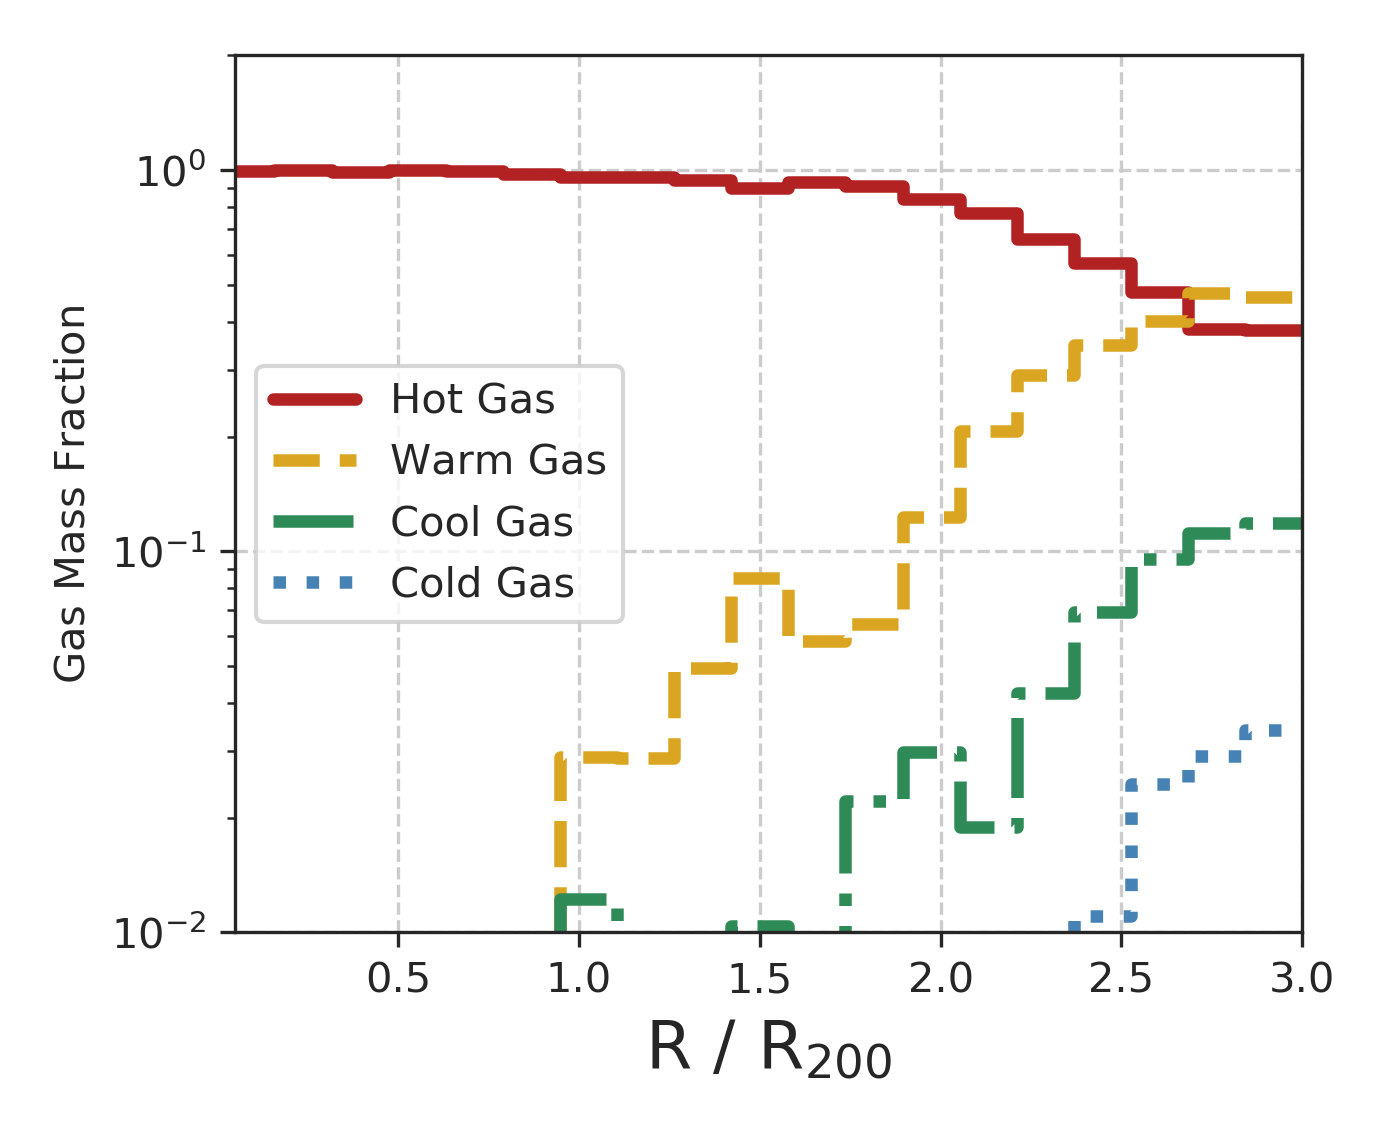
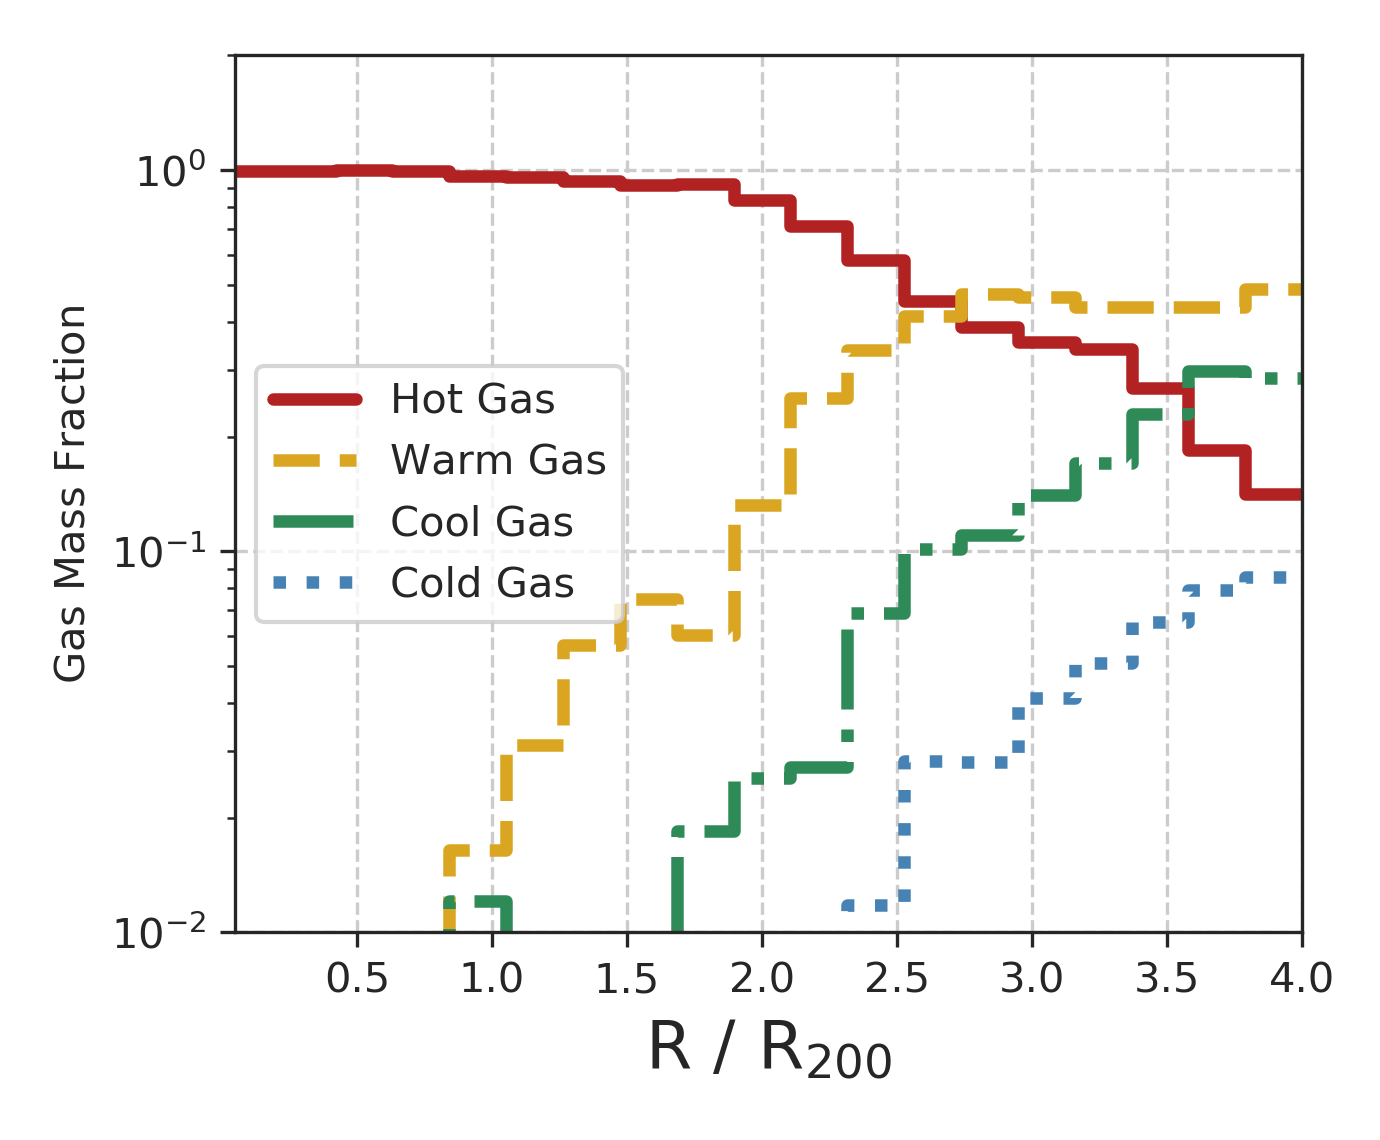
changing xrange in units of r200

diff --git a/plot_multipanel_halo_ion.py b/plot_multipanel_halo_ion.py
@@ -15,19 +15,19 @@ sns.set_style("ticks",{'axes.grid': True, 'grid.linestyle': '--'})
 
 import ion_plot_definitions as ipd
 
-def load_combined_counts(ion, output_list, plot_bin, sim = 'romulusC'):
+def load_combined_counts(ion, output_list, plot_bin, sim = 'romulusC', suffix = '_300'):
     counts = np.zeros(799*799)
     for output in output_list:
-        plot_data = h5.File('/nobackup/ibutsky/data/YalePaper/%s.%06d_combined_halo_ion_histogram_data.h5'%(sim, output), 'r')
+        plot_data = h5.File('/nobackup/ibutsky/data/YalePaper/%s.%06d_combined_halo_ion_histogram_data%s.h5'%(sim, output, suffix), 'r')
         counts += plot_data['%s_%s_counts'%(ion, plot_bin)][:]
     return counts.reshape(799, 799)
 
 
 def multipanel_ion_plot(sim, output, ion_list, plot_type, bin_type, do_colormesh = False, \
-                        combine = False, combined_output_list = []):
+                        combine = False, combined_output_list = [], suffix = '_300'):
 
-    plot_data = h5.File('/nobackup/ibutsky/data/YalePaper/%s.%06d_combined_halo_ion_histogram_data.h5'%(sim, output), 'r')
-    profile_data = h5.File('/nobackup/ibutsky/data/YalePaper/%s.%06d_combined_halo_ion_profile_data.h5'%(sim, output), 'r')
+    plot_data = h5.File('/nobackup/ibutsky/data/YalePaper/%s.%06d_combined_halo_ion_histogram_data%s.h5'%(sim, output, suffix), 'r')
+    profile_data = h5.File('/nobackup/ibutsky/data/YalePaper/%s.%06d_combined_halo_ion_profile_data%s.h5'%(sim, output, suffix), 'r')
     
     if len(ion_list) < 4:
         nrows = 1
@@ -61,15 +61,21 @@ def multipanel_ion_plot(sim, output, ion_list, plot_type, bin_type, do_colormesh
         linestyles = ['solid', 'dashed', 'dashdot']
     elif bin_type == 'dist':
         plot_bins = ['dist_1', 'dist_2', 'dist_3', 'dist_4']
-        plot_labels = ['$\mathrm{r} < 0.5 \mathrm{R}_{\mathrm{vir}}$', \
-                       '$ 0.5 \mathrm{R}_{\mathrm{vir}} < \mathrm{r} < \mathrm{R}_{\mathrm{vir}}$', \
-                       '$ \mathrm{R}_{\mathrm{vir}} < \mathrm{r} < 2 \mathrm{R}_{\mathrm{vir}}$' ,\
-                       '$ 2 \mathrm{R}_{\mathrm{vir}} < \mathrm{r} < 3 \mathrm{R}_{\mathrm{vir}}$']
         plot_labels = ['$\mathrm{r}\ <\ 0.5 \mathrm{Mpc}$', \
                        '$0.5\mathrm{Mpc}\ <\ \mathrm{r}\ <\ 1 \mathrm{Mpc}$',
                        '$1 \mathrm{Mpc}\ <\ \mathrm{r}\ <\ 2 \mathrm{Mpc}$',
                        '$2 \mathrm{Mpc}\ <\ \mathrm{r}\ <\ 3 \mathrm{Mpc}$']
+        linestyles = ['solid', 'dashed', 'dashdot', 'dotted']
 
+    elif bin_type == 'r200':
+        plot_bins = ['r1', 'r2', 'r3', 'r4']
+#        plot_labels = ['$\mathrm{r} < 0.5 \mathrm{R}_{\mathrm{vir}}$', \
+#                       '$ 0.5 \mathrm{R}_{\mathrm{vir}} < \mathrm{r} < \mathrm{R}_{\mathrm{vir}}$', \
+#                       '$ \mathrm{R}_{\mathrm{vir}} < \mathrm{r} < 2 \mathrm{R}_{\mathrm{vir}}$' ,\
+#                       '$ 2 \mathrm{R}_{\mathrm{vir}} < \mathrm{r} < 3 \mathrm{R}_{\mathrm{vir}}$']
+        plot_labels = ['$\mathrm{r} < 0.5 \mathrm{R}_{200}$', '$ 0.5 \mathrm{R}_{200} < \mathrm{r} < \mathrm{R}_{200}$', \      
+                       '$ \mathrm{R}_{200} < \mathrm{r} < 2 \mathrm{R}_{200}$',\  
+                       '$ 2 \mathrm{R}_{200} < \mathrm{r} < 3 \mathrm{R}_{200}$']                                             
 
         linestyles = ['solid', 'dashed', 'dashdot', 'dotted']
 
@@ -174,11 +180,18 @@ sim = 'romulusC'
 output = 3035
 plot_type = 'cfrac'
 multipanel_ion_plot(sim, output, ion_list, plot_type, 'dist', combine = False)
+multipanel_ion_plot(sim, output, ion_list, plot_type, 'r200', combine = False)
 
 
 plot_type = 'column'
 multipanel_ion_plot(sim, output, ion_list, plot_type, 'dist', combine = False)
-#multipanel_ion_plot(sim, output, ion_list, plot_type, 'dist', combine = False, do_colormesh = True)
+multipanel_ion_plot(sim, output, ion_list, plot_type, 'r200', combine = False)
 
-output = 3360
-multipanel_ion_plot(sim, output, ion_list, plot_type, 'dist', combine = True, combined_output_list = [3697])
+
+
+
+
+
+#multipanel_ion_plot(sim, output, ion_list, plot_type, 'dist', combine = False, do_colormesh = True)
+#output = 3360
+#multipanel_ion_plot(sim, output, ion_list, plot_type, 'dist', combine = True, combined_output_list = [3697])

diff --git a/generate_halo_combined_column_data.py b/generate_halo_combined_column_data.py
@@ -13,7 +13,7 @@ def combine_halo_column_densities(sim, output, ion_list, rmax = 300, mask = None
     else:
         out_file = h5.File('/nobackup/ibutsky/data/YalePaper/%s.%06d_combined_halo_ion_data%s.h5'%(sim, output, suffix), 'w')
     
-    halo_props = h5.File('/nobackup/ibutsky/data/%s_halo_data_%i%s'%(sim, output, suffix), 'r')
+    halo_props = h5.File('/nobackup/ibutsky/data/%s_halo_data_%i'%(sim, output), 'r')
     # ignoring the 0th entry, which is the main cluster halo
     halo_list = halo_props['halo_id'].value
     mstar_list = halo_props['mstar'].value
@@ -154,9 +154,9 @@ def combine_halo_column_densities(sim, output, ion_list, rmax = 300, mask = None
         col_list = [lowm_c, midm_c, highm_c]
         
         if sim == 'romulusC':
-            name_list = np.append(name_list, ['dist_1', 'dist_2', 'dist_3', 'dist_4', 'dist_5', 'r1', 'r2', 'r3', 'r4'])
-            radius_list = np.append(radius_list, [d1_r, d2_r, d3_r, d4_r, d5_r, r1_r, r2_r, r3_r, r4_r])
-            col_list = np.append(col_list, [d1_c, d2_c, d3_c, d4_c, d5_c, r1_c, r2_c, r3_c, r4_c])
+            name_list = np.append(name_list, ['dist_1', 'dist_2', 'dist_3', 'dist_4', 'r1', 'r2', 'r3', 'r4'])
+            radius_list = np.append(radius_list, [d1_r, d2_r, d3_r, d4_r, r1_r, r2_r, r3_r, r4_r])
+            col_list = np.append(col_list, [d1_c, d2_c, d3_c, d4_c, r1_c, r2_c, r3_c, r4_c])
 
         ion_out = ion.replace(" ", "")
         for dcol, drad, dname in zip(col_list, radius_list, name_list):

diff --git a/generate_halo_h5file.py b/generate_halo_h5file.py
@@ -29,7 +29,12 @@ def generate_halo_column_data(sim, output, ion_list, res = 800, start_index = 0,
 
     mask = (mstars >= 1e9) & (halo_ids > 0) & (contamination < 0.05)
     
-    for i in range(start_index, end_index):
+    if start_index > end_index:
+        counter = -1
+    else:
+        counter = 1
+
+    for i in np.arange(start_index, end_index, counter):
         halo_id = halo_ids[mask][i]
         mstar = mstars[mask][i]
         halo_center = centers[mask][i]
@@ -52,8 +57,9 @@ def generate_halo_column_data(sim, output, ion_list, res = 800, start_index = 0,
                 dset = "%s_%s" % (ion, axis)
                 if dset not in cdens_file.keys():
                     frb = ion_help.make_projection(ds, axis, field_list, center, width, res = res)
-                    cdens_file.create_dataset(dset, data=frb[field_list[j]].ravel())
-                    cdens_file.flush()
+                    if dset not in cdens_file.keys():
+                        cdens_file.create_dataset(dset, data=frb[field_list[j]].ravel())
+                        cdens_file.flush()
 
         cdens_file.close()
 
@@ -64,7 +70,7 @@ start_index = int(sys.argv[1])
 end_index = int(sys.argv[2])
 ion_list = ['H I', 'O VI', 'Si II', 'Si III', 'Si IV', 'C II', 'C III', 'C IV']
 ion_list = ['H I', 'O VI', 'C IV']
-
+ion_list = ['C IV', 'O VI', 'H I']
 
 generate_halo_column_data(sim, output, ion_list, start_index = start_index, end_index = end_index)
 

diff --git a/generate_halo_column_median_profiles.py b/generate_halo_column_median_profiles.py
@@ -16,7 +16,8 @@ def generate_ion_profiles(sim, output, ion_list, nbins = 100, rmax = 300, mask =
     else:
         frb = h5.File('/nobackup/ibutsky/data/YalePaper/%s.%06d_combined_halo_ion_data%s.h5'%(sim, output, suffix), 'r')
         plot_file = h5.File('/nobackup/ibutsky/data/YalePaper/%s.%06d_combined_halo_ion_profile_data%s.h5'%(sim, output, suffix), 'w')
-
+        
+    print(list(frb.keys()))
     bin_name_list = ['low_mass', 'med_mass', 'high_mass']
     if sim == 'romulusC':
         bin_name_list = np.append(bin_name_list, ['dist_1', 'dist_2', 'dist_3', 'dist_4', 'r1', 'r2','r3', 'r4'])

diff --git a/plot_gas_temperature_profile.py b/plot_gas_temperature_profile.py
@@ -15,9 +15,9 @@ output = int(sys.argv[1])
 rvir = rom_help.get_romulus_rvir('romulusC', output)
 rvir = rom_help.get_romulusC_r200(output)
 #rvir = 1.0
-#xmax = 3000
-xmax = 3
-
+xmax = 3000
+xmax /= rvir
+xmax = 4.
 dset_list = ['rbins_cold', 'rbins_warm', 'rbins_hot', 'mass_cold', 'mass_warm', 'mass_hot']
 plot_data = h5.File('/nobackup/ibutsky/data/YalePaper/romulusC_%i_gas_temperature_profile_data'%(output), 'r')
 
